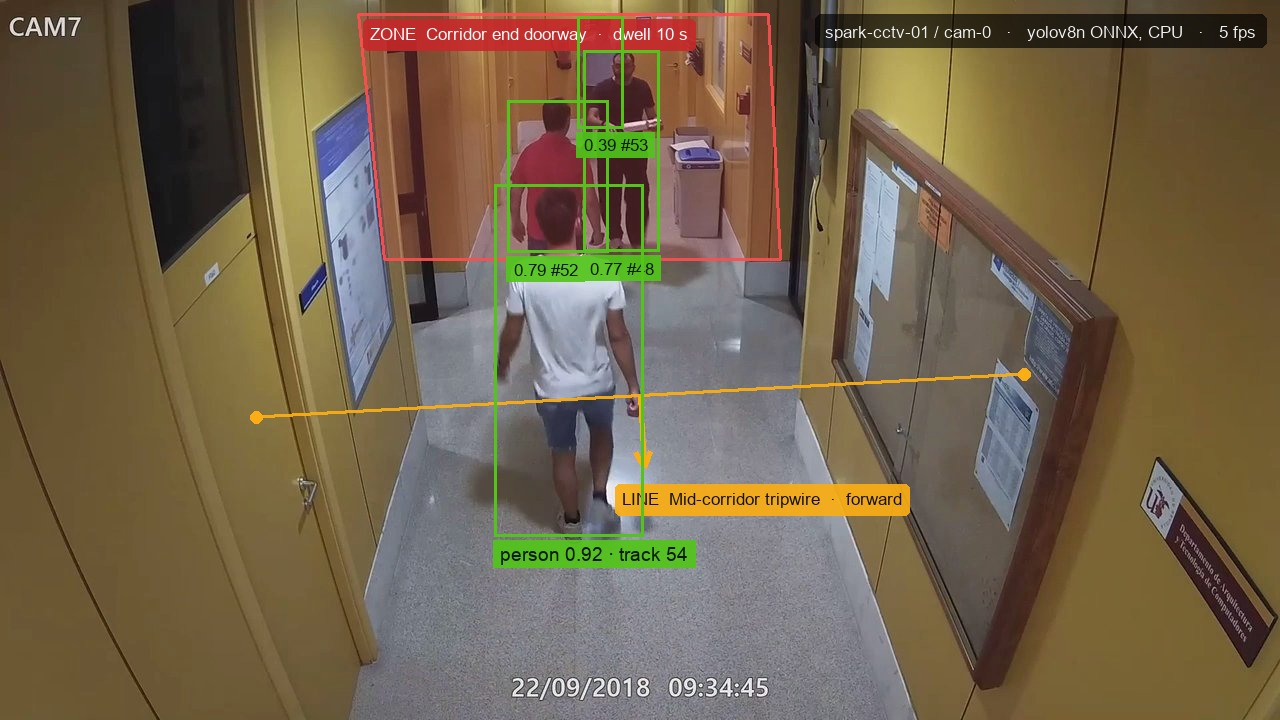
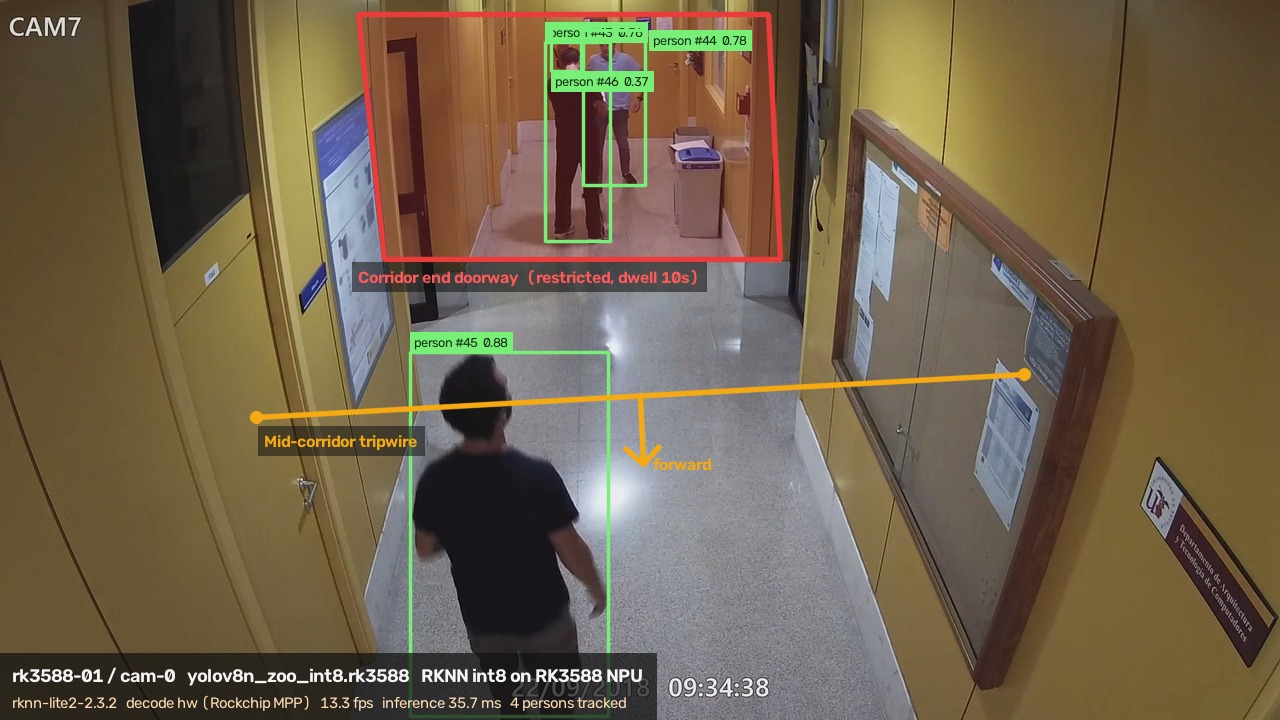
docs(edge_security): re-shoot the gallery on an RK3588 board
The previous captures were taken on a workstation running the ONNX/CPU
detector, so the cover HUD advertised "yolov8n ONNX, CPU" - a configuration no
preset in this solution offers. All three live assets are now one run of the
rk3588_hub preset's own stack on a Radxa ROCK 5T: broker, hub container and the
RKNN detector on the same board, health.decode hw through mppvideodec,
rknn-lite2-2.3.2, 13.1-13.6 fps.

The cover overlay reads its strings out of the detection payload and the
device's status message instead of being typed in, and the frame under it is
the full-resolution source frame the preview was decoded from, matched back by
cross-correlation. The tripwire arrow now points at the half-plane the hub's
own side() convention treats as the destination of a forward crossing.

The workbench GIF no longer opens on a row of black tiles. That was a capture
artefact, not the product: Chrome does not fetch loading="lazy" images while a
tab is not visible, so the newest rows never resolved their snapshots. All 891
alerts in the recorded run carried snapshot_state "received"; the recording
shows real corridor thumbnails throughout and ends on an Acknowledge that
stamps the row with the operator and time.

Recorded against the placeholder fix in edge-security-kit 0bd9d8c, mounted over
the hub image's web/dist so the served bundle carried it: a pending snapshot
renders as a dashed, legible, pulsing tile on the panel background rather than
a 10px dim label on black.
[…]

diff --git a/solutions/edge_security/gallery/ATTRIBUTION.md b/solutions/edge_security/gallery/ATTRIBUTION.md
@@ -13,7 +13,26 @@ detector.
 | Frames used | 900–1112, a single continuous run (frame 1012 is missing from the dataset and is filled by repeating 1011) |
 | Original frames | 1920×1080, sampled at ~2 fps, burnt-in timestamp 22/09/2018 09:33:41 → 09:35:27 |
 | What we made | 1280×720 H.264, 15 fps, 106.4 s, each source frame held for its real 0.5 s so motion runs at wall-clock speed |
-| How it was used | looped into a local MediaMTX and pulled by the detector at 5 fps |
+| How it was used | looped into a local MediaMTX on the board and pulled over RTSP/TCP by the detector |
+
+## Platform the assets were captured on
+
+All three live assets come from one run of the `rk3588_hub` preset's own stack
+on a Radxa ROCK 5T (RK3588, kernel 6.1.84), not from a workstation.
+
+| Item | Value |
+|---|---|
+| Detector | `rk3588-01` / `cam-0`, `yolov8n_zoo_int8.rk3588@856ae37c39d3`, RKNN int8 |
+| Runtime | `rknn-lite2-2.3.2` on the RK3588 NPU, `npu_core_mask: null` (runtime schedules across the three cores) |
+| Decode | Rockchip MPP hardware decoder (`mppvideodec`), `health.decode: hw`, `fallback_active: false` |
+| Measured | `health.fps` 13.1–13.6, `inference_time_ms` 18–36 on a 1280×720 H.264 source |
+| Rules | zone `Corridor end doorway` (4 points, dwell 10 s), line `Mid-corridor tripwire` (0.80,0.52)→(0.20,0.58) with `direction: forward`, cooldown 20 s |
+| Hub | `edge-security-hub:0.1.0` container on the same board, broker `eclipse-mosquitto:2` on the same board |
+
+The tripwire arrow drawn on the cover points to the half-plane the hub's own
+convention calls the destination of a `forward` crossing: `side()` is the sign
+of `(end-start) × (p-start)` and `forward` is `+1 → -1`, which for these two
+endpoints is the direction walking toward the camera.
 
 The dataset is a firearms-detection benchmark. **Only the pedestrians and the
 surveillance viewpoint are used here.** The segment was picked by reviewing the
@@ -26,9 +45,9 @@ person-only YOLOv8n.
 
 | File | Source |
 |---|---|
-| `cover-corridor.jpg` | One preview frame from the running detector, with that frame's own MQTT `sensecraft.detection/1` payload (4 person boxes, track ids, scores) and the two configured rules drawn on top. Boxes and rule geometry are the live values, not illustrations. |
-| `workbench-alert.gif` | Screen recording of the alert workbench on a live hub (`spark-cctv-01/cam-0`), including an Acknowledge action. |
-| `rules-editor-live.gif` | Screen recording of the rule editor. The background is the camera frame the hub proxies from the detector's preview endpoint. |
+| `cover-corridor.jpg` | 1280×720. The detector's preview for that instant is matched back to the source frame it was decoded from (normalised cross-correlation, best score 0.987), and that full-resolution frame carries the overlay. Boxes, track ids and scores are that frame's own MQTT `sensecraft.detection/1` payload; the zone and line are the rules stored in the hub; the HUD strings are read out of the payload and the device's `sensecraft.status/1` message, not typed in. |
+| `workbench-alert.gif` | 1000×404, 10 fps, 11.9 s. Screen recording of the alert workbench against the hub on the board, filtered to line-crossing alerts, ending on an Acknowledge that stamps the row with `admin` and the wall-clock time. Every thumbnail is a snapshot the detector published for that alert. |
+| `rules-editor-live.gif` | 1000×404, 10 fps, 11.9 s. Screen recording of the rule editor. The background is the camera frame the hub proxies from the RK3588 detector's preview endpoint. A second zone and a second line are drawn on it, the new line's direction is cycled from `both` to `forward`, and Save persists rev 2. |
 | `architecture-diagram.png`, `architecture.svg`, `cover.svg` | Drawn for this solution package. No third-party artwork. |
 | `cover.jpg`, `rules-editor.jpg`, `devices.jpg` | Earlier development-period screenshots. Kept for reference; no longer referenced by `solution.yaml`. |
 
